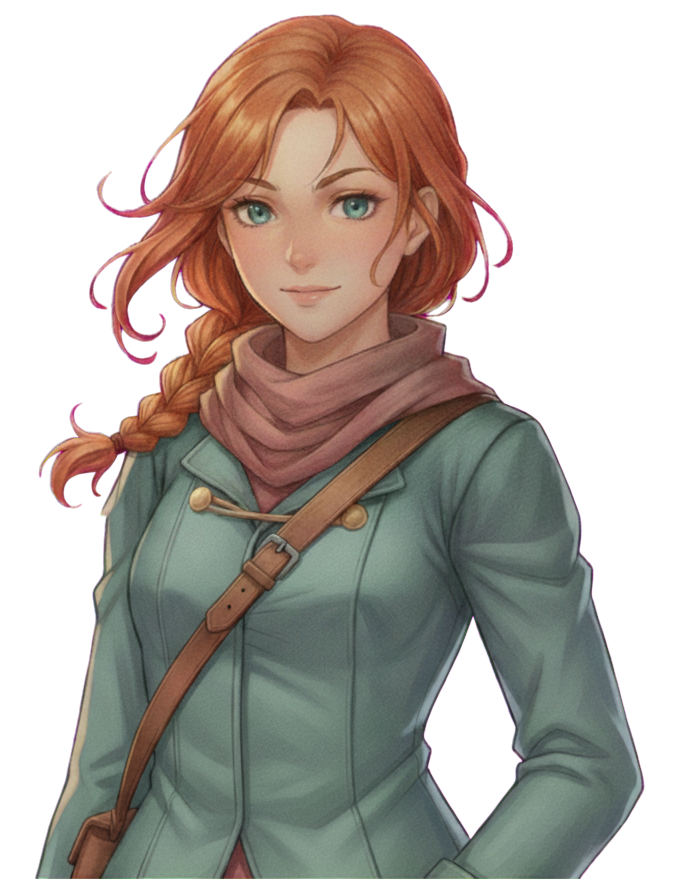
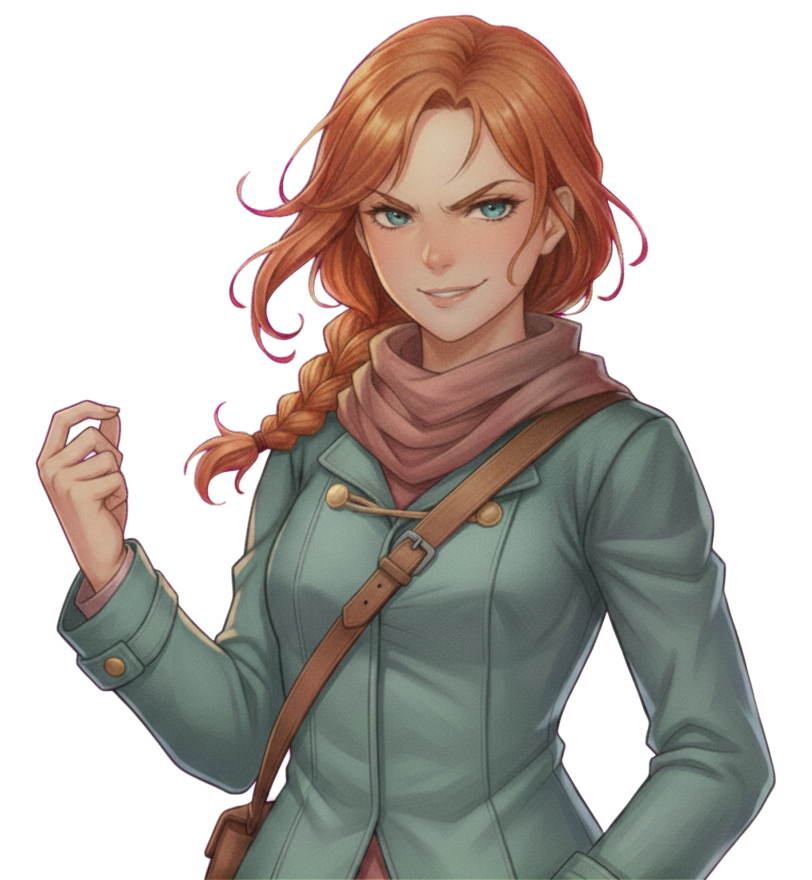
determined v10 candidates on the picker

diff --git a/docs/qa/cutins/vesper-poses/index.html b/docs/qa/cutins/vesper-poses/index.html
@@ -40,8 +40,8 @@ dialogue.js places it — so what you compare here is what the game will show.</
 <h2>wry</h2><div class=g><div class="c"><div class=stage><img src="wry-1.png" loading=lazy><div class=box>vesper — “…”</div></div><div class=m>pose 1</div></div><div class="c picked"><div class=stage><img src="wry-2.png" loading=lazy><div class=box>vesper — “…”</div></div><div class=m>★ PICKED — pose 2 <span class=k>· chained on pose 1</span></div></div><div class="c"><div class=stage><img src="wry-3.png" loading=lazy><div class=box>vesper — “…”</div></div><div class=m>pose 3 <span class=k>· chained on poses 1+2</span></div></div></div>
 <h2>worried</h2><div class=g><div class="c"><div class=stage><img src="worried-1.png" loading=lazy><div class=box>vesper — “…”</div></div><div class=m>pose 1</div></div><div class="c picked"><div class=stage><img src="worried-2.png" loading=lazy><div class=box>vesper — “…”</div></div><div class=m>★ PICKED — pose 2 <span class=k>· chained on pose 1</span></div></div><div class="c"><div class=stage><img src="worried-3.png" loading=lazy><div class=box>vesper — “…”</div></div><div class=m>pose 3 <span class=k>· chained on poses 1+2</span></div></div></div>
 <h2>surprised</h2><div class=g><div class="c"><div class=stage><img src="surprised-1.png" loading=lazy><div class=box>vesper — “…”</div></div><div class=m>pose 1</div></div><div class="c"><div class=stage><img src="surprised-2.png" loading=lazy><div class=box>vesper — “…”</div></div><div class=m>pose 2 <span class=k>· chained on pose 1</span></div></div><div class="c picked"><div class=stage><img src="surprised-3.png" loading=lazy><div class=box>vesper — “…”</div></div><div class=m>★ PICKED — pose 3 <span class=k>· chained on poses 1+2</span></div></div></div>
-<h2>determined</h2><div class=g><div class="c"><div class=stage><img src="determined-1.png" loading=lazy><div class=box>vesper — “…”</div></div><div class=m>pose 1</div></div><div class="c picked"><div class=stage><img src="determined-2.png" loading=lazy><div class=box>vesper — “…”</div></div><div class=m>★ PICKED — pose 2 <span class=k>· chained on pose 1</span></div></div><div class="c"><div class=stage><img src="determined-3.png" loading=lazy><div class=box>vesper — “…”</div></div><div class=m>pose 3 <span class=k>· chained on poses 1+2</span></div></div></div>
+<h2>determined</h2><div class=g><div class="c"><div class=stage><img src="determined-1.png" loading=lazy><div class=box>vesper — “…”</div></div><div class=m>pose 1</div></div><div class="c"><div class=stage><img src="determined-2.png" loading=lazy><div class=box>vesper — “…”</div></div><div class=m>pose 2 <span class=k>· chained on pose 1</span></div></div><div class="c"><div class=stage><img src="determined-3.png" loading=lazy><div class=box>vesper — “…”</div></div><div class=m>pose 3 <span class=k>· chained on poses 1+2</span></div></div></div>
 <h2>sad</h2><div class=g><div class="c picked"><div class=stage><img src="sad-1.png" loading=lazy><div class=box>vesper — “…”</div></div><div class=m>★ PICKED — pose 1</div></div><div class="c"><div class=stage><img src="sad-2.png" loading=lazy><div class=box>vesper — “…”</div></div><div class=m>pose 2 <span class=k>· chained on pose 1</span></div></div><div class="c"><div class=stage><img src="sad-3.png" loading=lazy><div class=box>vesper — “…”</div></div><div class=m>pose 3 <span class=k>· chained on poses 1+2</span></div></div></div>
-<h2>tender</h2><div class=g><div class="c"><div class=stage><img src="tender-1.png" loading=lazy><div class=box>vesper — “…”</div></div><div class=m>pose 1</div></div><div class="c"><div class=stage><img src="tender-2.png" loading=lazy><div class=box>vesper — “…”</div></div><div class=m>pose 2 <span class=k>· chained on pose 1</span></div></div><div class="c"><div class=stage><img src="tender-3.png" loading=lazy><div class=box>vesper — “…”</div></div><div class=m>pose 3 <span class=k>· chained on poses 1+2</span></div></div></div>
+<h2>tender</h2><div class=g><div class="c"><div class=stage><img src="tender-1.png" loading=lazy><div class=box>vesper — “…”</div></div><div class=m>pose 1</div></div><div class="c picked"><div class=stage><img src="tender-2.png" loading=lazy><div class=box>vesper — “…”</div></div><div class=m>★ PICKED — pose 2 <span class=k>· chained on pose 1</span></div></div><div class="c"><div class=stage><img src="tender-3.png" loading=lazy><div class=box>vesper — “…”</div></div><div class=m>pose 3 <span class=k>· chained on poses 1+2</span></div></div></div>
 <h2>thinking</h2><div class=g><div class="c"><div class=stage><img src="thinking-1.png" loading=lazy><div class=box>vesper — “…”</div></div><div class=m>pose 1</div></div><div class="c"><div class=stage><img src="thinking-2.png" loading=lazy><div class=box>vesper — “…”</div></div><div class=m>pose 2 <span class=k>· chained on pose 1</span></div></div><div class="c picked"><div class=stage><img src="thinking-3.png" loading=lazy><div class=box>vesper — “…”</div></div><div class=m>★ PICKED — pose 3 <span class=k>· chained on poses 1+2</span></div></div></div>
-<h2>annoyed</h2><div class=g><div class="c picked"><div class=stage><img src="annoyed-1.png" loading=lazy><div class=box>vesper — “…”</div></div><div class=m>★ PICKED — pose 1</div></div><div class="c"><div class=stage><img src="annoyed-2.png" loading=lazy><div class=box>vesper — “…”</div></div><div class=m>pose 2 <span class=k>· chained on pose 1</span></div></div><div class="c"><div class=stage><img src="annoyed-3.png" loading=lazy><div class=box>vesper — “…”</div></div><div class=m>pose 3 <span class=k>· chained on poses 1+2</span></div></div></div>
+<h2>annoyed</h2><div class=g><div class="c"><div class=stage><img src="annoyed-1.png" loading=lazy><div class=box>vesper — “…”</div></div><div class=m>pose 1</div></div><div class="c"><div class=stage><img src="annoyed-2.png" loading=lazy><div class=box>vesper — “…”</div></div><div class=m>pose 2 <span class=k>· chained on pose 1</span></div></div><div class="c picked"><div class=stage><img src="annoyed-3.png" loading=lazy><div class=box>vesper — “…”</div></div><div class=m>★ PICKED — pose 3 <span class=k>· chained on poses 1+2</span></div></div></div>
